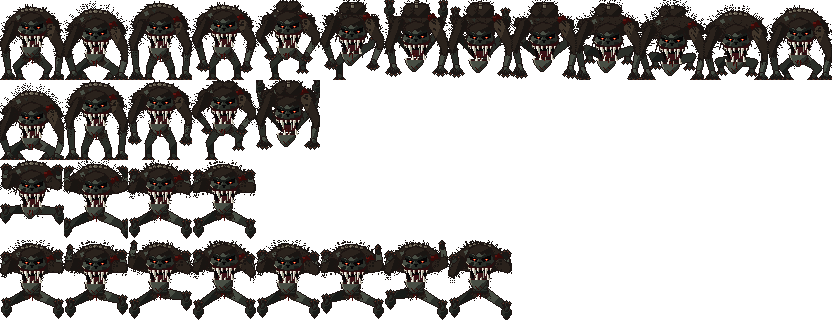
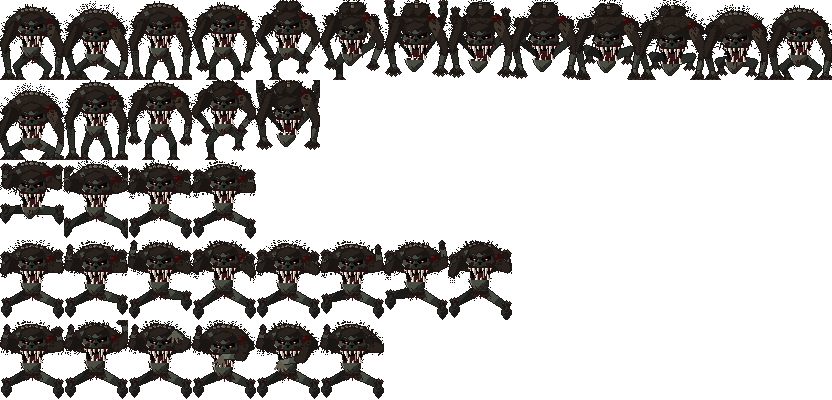
Give the window loper a 6-frame front-on bar rake (sheet row 4, clip rake, 12 fps): it holds the bars with its left paw and swipes its bright claws down across its own face with the right, holding the ready frame between strikes and timing each swing so the impact frame lands on the bar damage.
Claude-Session: https://claude.ai/code/session_01BANmaZxCC32NDFdiMjj9vN

diff --git a/tools/gen_enemy_sprites.py b/tools/gen_enemy_sprites.py
@@ -8,7 +8,7 @@ hanging jaw, corpse-grey skin and black eye pits, nothing bright. The loper is b
 raider. door_raider.png is a 13-frame 832 x 320 sheet: row 0 the 13-frame run (a bounding charge,
 seen from the front; frame 0 is the still), row 1 the 5-frame jump take-off, row 2 a 4-frame
 front-on latch onto the van wall (reach, impact, cling), row 3 an 8-frame front-on wall crawl
-(diagonal pairs, looping). Every frame has the
+(diagonal pairs, looping), row 4 a 6-frame front-on bar rake (hold on left, rake right). Every frame has the
 feral face (draw_feral_head), riding the pose's head bob and jaw lag.
 
 Art rules (.claude/rules/art-style.md, pixel art): native size, one image
@@ -39,10 +39,11 @@ OUT = ROOT / "scenes" / "enemies"
 # Canvas size: the loper (door and window raider) is 1.54 x 1.92 m.
 LOPER_SIZE = (64, 80)
 LOPER_FRAMES = 13
-LOPER_ROWS = 4
+LOPER_ROWS = 5
 JUMP_FRAMES = 5
 LATCH_FRAMES = 4
 CLIMB_FRAMES = 8
+RAKE_FRAMES = 6
 LOPER_SHEET = (LOPER_SIZE[0] * LOPER_FRAMES, LOPER_SIZE[1] * LOPER_ROWS)
 
 OUTLINE = (30, 20, 18)
@@ -551,12 +552,48 @@ LOPER_CLIMB_POSES = [
 ]
 assert len(LOPER_CLIMB_POSES) == CLIMB_FRAMES
 
+# Row 4 of the sheet: the bar rake, front-on like the cling (the player looks out of a barred
+# window at the loper pressed on the van's outside wall; never a side view, never mirrored).
+# Every frame starts from the cling: the LEFT fore paw holds the bars (raised, claws curled,
+# still; 1 px shake on frame 3), the RIGHT fore paw rakes. Frame 0 ready, paw raised 3 px.
+# Frame 1 wind-up: paw high at the right edge, claws wide, body up, head pulls back. Frame 2
+# swing: paw comes in across the body. Frame 3 impact: paw across the chest, claws at their
+# widest, body squashed. Frame 4 drag: claws dragged down. Frame 5 recover, flows into 0.
+# The right arm draws in front of the torso and head on frames 2-4 (right_front).
+LOPER_RAKE_POSES = [
+	dict(by=-3, hump_dy=0, head_dy=-2, shoulder_dx=2, lag=1,  # 0 ready
+		left=((4, 24), (6, 12), [(5, 8), (6, 6), (7, 6), (8, 8)]),
+		right=((60, 26), (58, 14), [(61, 10), (59, 8), (56, 8), (53, 10)]),
+		legs=(((7, 63), (6, 74)), ((57, 64), (58, 75))), soles=True),
+	dict(by=-4, hump_dy=0, head_dy=-3, shoulder_dx=3, lag=1,  # 1 wind-up, head pulls back
+		left=((4, 24), (6, 12), [(5, 8), (6, 6), (7, 6), (8, 8)]),
+		right=((62, 18), (60, 3), [(63, 2), (61, 0), (57, 0), (54, 2)]),
+		legs=(((7, 63), (6, 74)), ((57, 64), (58, 75))), soles=True),
+	dict(by=-3, hump_dy=0, head_dy=-2, shoulder_dx=2, right_front=True, lag=1,  # 2 swing, in front
+		left=((4, 24), (6, 12), [(5, 8), (6, 6), (7, 6), (8, 8)]),
+		right=((58, 22), (46, 12), [(54, 19), (49, 22), (44, 22), (39, 19)]),
+		legs=(((7, 63), (6, 74)), ((57, 64), (58, 75))), soles=True),
+	dict(by=-2, hump_dy=-1, head_dy=1, shoulder_dx=2, right_front=True, lag=1,  # 3 impact, in front
+		left=((4, 25), (6, 13), [(5, 9), (6, 7), (7, 7), (8, 9)]),
+		right=((50, 36), (30, 36), [(20, 44), (24, 46), (28, 47), (32, 47)]),
+		legs=(((7, 63), (6, 74)), ((57, 64), (58, 75))), soles=True),
+	dict(by=-3, hump_dy=0, head_dy=-2, shoulder_dx=2, right_front=True, lag=1,  # 4 drag, in front
+		left=((4, 24), (6, 12), [(5, 8), (6, 6), (7, 6), (8, 8)]),
+		right=((46, 38), (24, 42), [(18, 49), (22, 51), (26, 51), (30, 49)]),
+		legs=(((7, 63), (6, 74)), ((57, 64), (58, 75))), soles=True),
+	dict(by=-3, hump_dy=0, head_dy=-2, shoulder_dx=2, lag=1,  # 5 recover
+		left=((4, 24), (6, 12), [(5, 8), (6, 6), (7, 6), (8, 8)]),
+		right=((60, 28), (50, 22), [(54, 17), (52, 15), (49, 15), (46, 17)]),
+		legs=(((7, 63), (6, 74)), ((57, 64), (58, 75))), soles=True),
+]
+assert len(LOPER_RAKE_POSES) == RAKE_FRAMES
+
 
 def fur_sway(frame: int, poses=LOPER_POSES) -> tuple[int, int]:
 	"""Overlap and follow-through: the hair lags the body by a frame."""
 	# the jump row starts from the run's still, not from its own last frame; the climb loops
 	prev = LOPER_POSES[0] if poses is not LOPER_POSES and frame == 0 else poses[frame - 1]
-	if poses is LOPER_CLIMB_POSES and frame == 0:
+	if poses in (LOPER_CLIMB_POSES, LOPER_RAKE_POSES) and frame == 0:
 		prev = poses[-1]
 	vy = poses[frame]["by"] - prev["by"]
 	return 0, max(-3, min(3, -vy))
@@ -670,6 +707,31 @@ def draw_feral_head(c: Canvas, hd: int, jy: int, by: int, bx: int = 0) -> None:
 		c.set(x + bx, y1 + by, BLOOD)
 
 
+def draw_arm(c: Canvas, shoulder: tuple, elbow: tuple, wrist: tuple, tips: list, seed: int,
+		sway: tuple, flare: int, front: bool = False) -> None:
+	"""One arm: tapered skin limb, furred sleeve over the upper arm, claws at the wrist."""
+	arm = c.mask(taper([shoulder, elbow, wrist], [5.0, 3.4, 2.2]))
+	c.part(arm, SKIN, SKIN_SH, SKIN_HI, light(elbow[0], elbow[1], 10, 24), 0.2, -0.95)
+	past = (elbow[0] + (wrist[0] - elbow[0]) * 0.2, elbow[1] + (wrist[1] - elbow[1]) * 0.2)
+	sleeve = c.mask(taper([shoulder, elbow, past], [5.5, 4.0, 3.2]))
+	c.part(sleeve, FUR, FUR_SH, FUR_HI, light(elbow[0], elbow[1], 10, 24), 0.2, -0.95)
+	back = {q for q in sleeve if (q[0] <= shoulder[0]) == (shoulder[0] < 32)}
+	fur_fringe(c, back, seed=seed, sway=sway, length=3 + flare)
+	if front:
+		# the raking arm crosses the face: a deep edge to part it, long bone claws
+		both = arm | sleeve
+		for x, y in both:
+			for dx, dy in ((1, 0), (-1, 0), (0, 1), (0, -1)):
+				if (x + dx, y + dy) not in both:
+					c.set(x + dx, y + dy, SKIN_DEEP)
+		for tx, ty in tips:
+			c.fill(c.mask(capsule(wrist[0], wrist[1], tx, ty, 1.4, 0.9)), BONE)
+			c.set(tx, ty, BONE_HI)
+			c.set(round(wrist[0] + (tx - wrist[0]) * 0.8), round(wrist[1] + (ty - wrist[1]) * 0.8), BONE_HI)
+	else:
+		draw_claws(c, wrist[0], wrist[1], tips)
+
+
 def draw_loper(frame: int = 0, poses=LOPER_POSES) -> Canvas:
 	"""The door raider, seen from the front as it comes through the doors: the
 	furred mantle rises above and behind the head, which hangs from a hair ruff,
@@ -756,16 +818,13 @@ def draw_loper(frame: int = 0, poses=LOPER_POSES) -> Canvas:
 	# Arms: one tapered limb from inside the mantle out to elbows wider than the body,
 	# then down to the floor; bare skin forearm, a furred sleeve over the upper arm whose
 	# hair hangs off the back of the arm.
+	front = []
 	for shoulder, (elbow, wrist, tips), seed in (((14 - sdx + bx, 27 + by), p["left"], 21),
 			((50 + sdx + bx, 29 + by), p["right"], 22)):
-		arm = c.mask(taper([shoulder, elbow, wrist], [5.0, 3.4, 2.2]))
-		c.part(arm, SKIN, SKIN_SH, SKIN_HI, light(elbow[0], elbow[1], 10, 24), 0.2, -0.95)
-		past = (elbow[0] + (wrist[0] - elbow[0]) * 0.2, elbow[1] + (wrist[1] - elbow[1]) * 0.2)
-		sleeve = c.mask(taper([shoulder, elbow, past], [5.5, 4.0, 3.2]))
-		c.part(sleeve, FUR, FUR_SH, FUR_HI, light(elbow[0], elbow[1], 10, 24), 0.2, -0.95)
-		back = {q for q in sleeve if (q[0] <= shoulder[0]) == (shoulder[0] < 32)}
-		fur_fringe(c, back, seed=seed, sway=sway, length=3 + flare)
-		draw_claws(c, wrist[0], wrist[1], tips)
+		if p.get("right_front") and seed == 22:
+			front.append((shoulder, elbow, wrist, tips, seed))  # the raking arm crosses the chest
+			continue
+		draw_arm(c, shoulder, elbow, wrist, tips, seed, sway, flare)
 	# The head hangs forward below the shoulders, tilted, in front of the chest:
 	# a gaunt skull, a brow over black pits that look up at you, cheeks fallen in.
 	# A ruff of hair behind and around the top of the skull, so the head hangs out of
@@ -776,6 +835,8 @@ def draw_loper(frame: int = 0, poses=LOPER_POSES) -> Canvas:
 	c.fill(ruff, FUR_SH)
 	fur_fringe(c, ruff, seed=51, sway=sway, length=2 + flare, density=0.45, up_only=True)
 	draw_feral_head(c, hd, jy, by, bx)
+	for arm_args in front:
+		draw_arm(c, *arm_args, sway, flare, True)
 	return c
 
 
@@ -791,6 +852,8 @@ def draw_loper_sheet() -> Canvas:
 		sheet.blit(draw_loper(i, LOPER_LATCH_POSES), i * LOPER_SIZE[0], LOPER_SIZE[1] * 2)
 	for i in range(CLIMB_FRAMES):
 		sheet.blit(draw_loper(i, LOPER_CLIMB_POSES), i * LOPER_SIZE[0], LOPER_SIZE[1] * 3)
+	for i in range(RAKE_FRAMES):
+		sheet.blit(draw_loper(i, LOPER_RAKE_POSES), i * LOPER_SIZE[0], LOPER_SIZE[1] * 4)
 	return sheet
 
 
@@ -826,7 +889,8 @@ def main() -> None:
 def write_strip(sheet: Image.Image, path: Path) -> None:
 	"""Run frame 0, the latch frames and the climb frames in one row at 6x, 2 px gaps."""
 	w, h = LOPER_SIZE
-	cells = [(0, 0)] + [(i, 2) for i in range(LATCH_FRAMES)] + [(i, 3) for i in range(CLIMB_FRAMES)]
+	cells = [(0, 0)] + [(i, 2) for i in range(LATCH_FRAMES)] + [(i, 3) for i in range(CLIMB_FRAMES)] \
+		+ [(i, 4) for i in range(RAKE_FRAMES)]
 	scale = 6
 	gap = 2
 	strip = Image.new("RGBA", (len(cells) * (w * scale + gap) - gap, h * scale), (40, 40, 40, 255))

diff --git a/.claude/rules/enemies-and-breaching.md b/.claude/rules/enemies-and-breaching.md
@@ -31,15 +31,18 @@ The points live in `scenes/van/van_breach_points.tscn`, instanced at `VanRig/Ene
 ## Beast sprites and hitboxes
 
 - `scenes/enemies/window_raider.tscn` holds the door raider, a hunched humanoid
-  feral (the loper): `Sprite3D` at `pixel_size 0.024` on `door_raider.png`, an 832 x 320 sheet:
+  feral (the loper): `Sprite3D` at `pixel_size 0.024` on `door_raider.png`, an 832 x 400 sheet:
   row 0 thirteen 64 x 80 run frames, row 1 a 5-frame jump take-off (`hframes 13, vframes 4`;
   clip `jump`, 15 fps, no loop, plays on JUMPING), row 2 a 4-frame latch (clip `latch`, 10 fps,
   no loop: starts `LATCH_START` 0.55 s into a jump to the wall and holds its cling frame through
   GRIPPING only; a drop-off jump never latches, front-on like the run, never flipped), row 3 an
   8-frame crawl (clip `climb`, 12 fps, loop, plays on CLIMBING once the latch finishes; diagonal
-  pairs, front-on); each 1.54 x 1.92 m; frame 0 is the still,
+  pairs, front-on), row 4 a 6-frame bar rake (clip `rake`, 12 fps, no loop: a window loper in
+  BREACHING rests on frame 0 and swings once per strike, `start_rake` called from
+  `_breach_until_open` `rake_lead_seconds` 0.25 s before `take_damage` so impact frame 3
+  lands with it; door lopers never rake); each 1.54 x 1.92 m; frame 0 is the still,
   `window_raider_anim.gd` is a clip player: named clips in `CLIPS` (sheet row, frames, fps,
-  loop; `still`, `run`, `prowl`, `jump`, `latch`, `climb` so far) set `frame_coords`, a new animation adds a sheet row
+  loop; `still`, `run`, `prowl`, `jump`, `latch`, `climb`, `rake` so far) set `frame_coords`, a new animation adds a sheet row
   (`SHEET_ROWS`) and a clip, and `_die` plays a `death` clip, when one exists, before the
   sink and fade; `run` steps at 18 fps while the raider moves and `still` rests
   it on 0, frames 6 to 8 are airborne, 6 the kick; the boss sets `hframes 1`), centred 0.66 m below the node so its claws

diff --git a/.claude/rules/art-style.md b/.claude/rules/art-style.md
@@ -283,7 +283,7 @@ target; its grid is not (it is upscaled about 3.2x off any exact grid).
 **Creepy, not cute** (owner, 2026-10-01, second pass): the raiders are Darkest
 Dungeon dark, never bright or rounded. The door raider is a humanoid gone
 feral, the loper: a 64 x 80 frame (1.54 x 1.92 m, claws on the van floor) on a
-832 x 320 sheet (row 0 the thirteen-frame run; row 1 a five-frame front-on jump take-off (the run's rising half, pushed further), frames J0-J3 keep a claw row on the floor row and J4 is airborne; row 2 a four-frame latch, clip `latch`: reach, impact, pull in, cling; row 3 an eight-frame front-on wall crawl, clip `climb`, diagonal pairs (left fore paw with right hind foot, then the mirror), never flipped; animation is frame-swapping on one sheet,
+832 x 400 sheet (row 0 the thirteen-frame run; row 1 a five-frame front-on jump take-off (the run's rising half, pushed further), frames J0-J3 keep a claw row on the floor row and J4 is airborne; row 2 a four-frame latch, clip `latch`: reach, impact, pull in, cling; row 3 an eight-frame front-on wall crawl, clip `climb`, diagonal pairs (left fore paw with right hind foot, then the mirror), never flipped; row 4 a six-frame bar rake, clip `rake`, a window loper's swing at the bars (ready, wind-up, strike, impact at frame 3, recoil, recover); animation is frame-swapping on one sheet,
 never a node tween: a bounding charge seen from the front at 18 fps, crouch,
 push, paws-rise, lift-off, tip-over, kick, fall, drop, reach, rump-down, land,
 gather; the kick, fall and drop frames are airborne, the kick 4 px off the floor
